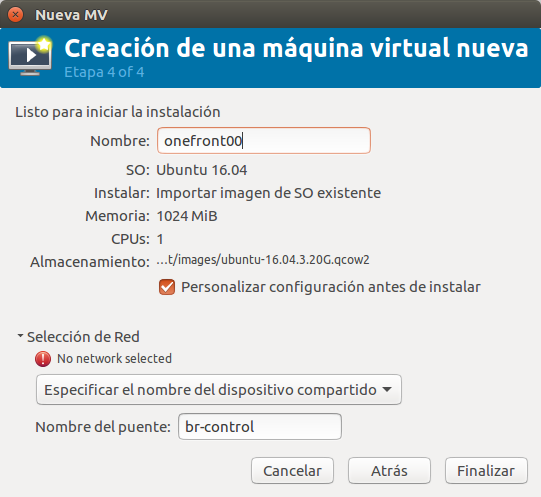
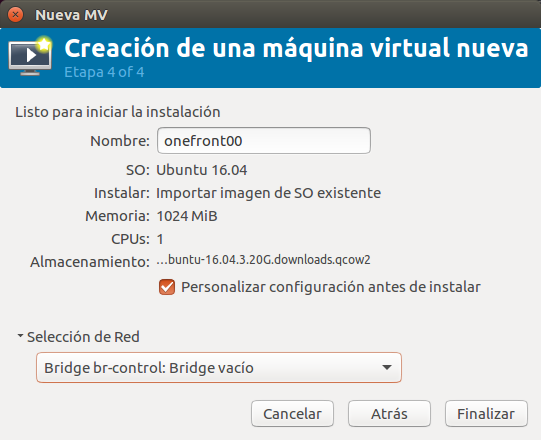
version para entregar

diff --git a/02_Instalacion_Basica/01_instalacion_basica.md b/02_Instalacion_Basica/01_instalacion_basica.md
@@ -1,0 +1,391 @@
+# Instalación Básica de OpenNebula
+
+En nuestro caso, la instalación básica de la plataforma que vamos a utilizar consiste en dos partes: por un lado, instalación de la plataforma de laboratorio que vamos a utilizar y, por otro, la instalación de OpenNebula en sí mismo.
+
+---
+> **NOTA:** Puesto que el documento tiene un ancho limitado, para identificar cuando un salto de línea no es tal (en las líneas de código o la ejecución de comandos), éstos aparecerán destacados sobre fondo gris y los números de línea de cada bloque a la izquierda. De esta forma, podremos identificar si una línea es continuación de la anterior porque no tendrá número de línea.
+
+## Instalación de la plataforma del laboratorio
+
+El caso de la plataforma nos vendrá habitualmente dado por la instalación de nuestro cluster en nuestra organización. En el curso nosotros vamos a instalar una plataforma de pruebas compuesta por un equipo front-end y un working node. Ambos tendrán Ubuntu 16.04 y estarán conectados por las siguientes redes:
+- una red de control, que llamaremos br-control y que tendrá IPs en el rango 192.168.0.1/24. Esta red se utilizará para realizar tareas de control de los nodos y nos permitirá comunicarlos entre ellos mediante SSH.
+- una red privada, que llamaremos brpriv y que tendrá IPs en el rango 10.10.0.1/24. Esta red se utilizará para alojar máquinas virtuales. 
+- una red con IPs públicas, que llamaremos brpub y que tendrá IPs en el rango 158.42.0.0/16. Esta red se utilizará para conectarnos a internet.
+
+El esquema del laboratorio es el siguiente:
+
+![Esquema del laboratorio](img/02_arquitectura.png)
+
+### Instalación del nodo físico (onenode01)
+
+#### Actualización del sistema
+
+Partimos de una instalación básica de Ubuntu 16.04, que actualizaremos y a la que instalaremos una serie de utilidades que vamos a necesitar para realizar la configuración:
+
+```bash
+$ apt-get update
+$ apt-get -y dist-upgrade
+$ apt-get install -y bridge-utils
+```
+
+#### Creación y configuración de las redes
+
+Una vez tenemos esto listo, realizaremos la configuración de red de la plataforma, creando las distintas redes que vamos a necesitar. 
+
+En primer lugar, deberemos averiguar qué interfaz tiene una IP pública en nuestra máquina. Para ello, ejecutaremos el comando ```ifconfig``` y buscaremos el interfaz que tiene la IP pública (el que tiene 158.42.x.x), que en nuestro caso es _enp3s0_.
+
+![Buscando la IP pública](img/02_ifconfig.png)
+
+Una vez conocido este dado, editaremos el fichero _/etc/network/interfaces_, teniendo en cuenta que deberemos sustituir el interfaz que hemos encontrado en el paso anterior donde pone _enp3s0_.
+
+```
+auto lo
+iface lo inet loopback
+
+auto br-control
+iface br-control inet static
+address 192.168.0.1
+netmask 255.255.255.0
+bridge_ports none
+
+auto brpriv
+iface brpriv inet static
+address 10.10.0.1
+netmask 255.255.255.0
+bridge_prots none
+
+auto brpub
+iface brpub inet dhcp
+bridge_ports enp3s0
+pre-up iptables-restore < /etc/iptables.up.rules
+```
+
+En este momento, tenemos las redes creadas pero desde las redes privadas no tendremos salida a Internet. Por lo que deberemos hacer la instalación del _router_ público de nuestra red. Para ello, prepararmos el fichero _/etc/iptables.up.rules_ con el siguiente contenido:
+
+```
+*nat
+-A POSTROUTING -s 192.168.0.0/24 ! -d 192.168.0.1/24 -o wlo1 -j MASQUERADE
+COMMIT
+*filter
+-A FORWARD -d 192.168.0.0/24 -i wlo1 -o br-control -m state --state RELATED,ESTABLISHED -j ACCEPT
+-A FORWARD -s 192.168.0.0/24 -i br-control -j ACCEPT
+COMMIT
+```
+
+Este fichero contiene unas reglas de _iptables_ que permitirán que el equipo implemente un _router_ desde las IPs en el rango 192.168.0.0/24 hacia Internet, a través de la red _brpub_. Las modificaciones que hemos introducido en el fichero _/etc/network/interfaces_ hacen que, cuando se ponga en funcionamiento la red pública, se ponga en funcionamiento esta funcionalidad de router.
+
+#### Configuración de los nombres de las máquinas
+
+A continuación ajustaremos el fichero _/etc/hosts_, añadiendo las entradas de los nombres de máquinas que vamos a utilizar en nuestro laboratorio:
+
+```
+192.168.0.1 onenode01
+192.168.0.2 onefront00
+```
+
+También modificaremos el fichero _/etc/hostname_ para que contenga el nombre de nuestro nodo:
+
+```bash
+$ echo "onenode01" > /etc/hostname
+```
+
+#### Reinicio de la máquina
+Una vez establecida la configuración de la máquina, deberemos reiniciar y verificar que tenemos conectividad de red hacia el exterior, haciendo un ping a una web conocida. Por ejemplo, con el siguiente comando:
+
+![Verificación de conectividad](img/02_ping.png)
+
+#### Instalación del servidor NFS
+Para almacenar las imágenes de discos necesitamos un equipo que actue como una NAS (_Network Attached Storage_). Para el laboratorio, vamos a hacer que este equipo sea el mismo nodo físico, pero con que responda ante otro nombre, para que podamos separar la funcionalidad. En este caso, será _nfsserver_.
+
+Lo primero que haremos será modificar el fichero _/etc/hosts_ incluyendo la siguiente línea:
+
+```
+192.168.0.1 nfsserver
+```
+
+A continuación, instalaremos los paquetes necesario para crear el servidor NFS y prepararemos un directorio, que será el que estará compartido a través de la red, entre las máquinas que forman la plataforma de virtualización (_onefront00_ y _onenode01_):
+
+```bash 
+$ apt-get install -y nfs-kernel-server nfs-common
+$ mkdir -p /srv/var/lib/one
+```
+
+Para que quede compartido mediante el protocolo NFS, tendremos que incluir la siguiente línea en el fichero _/etc/exports_.
+
+```
+/srv/var/lib/one 192.168.0.1/24(rw,sync,no_subtree_check,no_root_squash)
+```
+
+Y para que los cambios surtan efecto, reiniciaremos el servicio _NFS_:
+
+```bash
+$ service nfs-kernel-server restart
+```
+
+Queremos que el directorio _/srv/var/lib/one_ esté compartido entre las distintas máquinas. Es importante ajustar los permisos para que el futuro usuario _oneadmin_ pueda escribir en ese directorio, porque ese directorio será el _home_ de _oneadmin_. En la instalación por defecto de ONE, el usuario _oneadmin_ tendrá el identificador _9869_, por lo que ejecutaremos el siguiente comando:
+
+```bash
+$ chown -R 9869:9869 /srv/var/lib/one/
+```
+
+
+### Instalación del nodo front-end
+El nodo que va a hacer la función de front-end será una máquina virtual. Para ello, disponemos de una imagen de disco con Ubuntu 16.04.3 recién instalado, con el nombre de fichero _ubuntu-16.04.4.20G.qcow2_. En caso de que no se dispusiera de ella, se pueden seguir las instrucciones del Anexo I para generar la imagen de disco y volver a este punto.
+
+#### Creación de la máquina virtual
+De momento trabajaremos en el equipo físico (_onenode01_), hasta que tengamos la máquina virtual creada.
+
+En primer lugar, moveremos el fichero _ubuntu-16.04.4.20G.qcow2_ al directorio ```/var/lib/libvirt/images``` y le daremos permisos de lectura y escritura universales (en una instalación en producción deberíamos hacer un ajuste de estos permisos, pero para el caso que nos ocupa utilizaremos estos permisos universales):
+
+```bash 
+mv ubuntu-16.04.4.20G.qcow2 /var/lib/libvirt/images
+chmod 777 /var/lib/libvirt/image/ubuntu-16.04.4.20G.qcow2
+```
+
+Una vez listo, deberemos iniciar la aplicación _virt-manager_ ejecutando el comando ```virt-manager``` y nos aparecerá la siguiente imagen.
+
+![Imagen principal de virt-manager](img/02_1_w0.png).
+
+En esta aplicación deberemos pulsar el botón de crear una nueva máquina, con la figura ![Boton crear](img/02_1_btn_crear.png) y nos aparecerá la siguiente figura.
+
+![Creación de una máquina virtual](img/02_1_w1.png).
+
+Seleccionaremos la opción _Importar imagen de disco existente_ y pulsaremos en _Adelante_, para que nos permita entrar en la pantalla de selección del disco que se utilizará en la MV.
+
+![Seleción del disco a utilizar](img/02_1_w2.png)
+
+Aquí pulsaremos el botón "Explorar" y nos mostrará el contenido de los repositorios de imágenes, en una pantalla como la siguiente.
+
+![Reporitorio de imagenes](img/02_1_w3.png)
+
+En concreto, nos muestra el repositorio por defecto, que se encuentra ubicado en la ruta _/var/lib/libvirt/images_, y que es donde hemos guardado la imagen que vamos a utilizar. Por tanto, deberá aparecer y nosotros procederemos a seleccionarla y pulsar _"Elegir volumen"_. Esto nos llevará a la siguiente pantalla, y en ella selecionaremos que el tipo de Sistema Operativo (SO) es _"Linux"_, y que la versión es _"Ubuntu 16.04"_. Nos quedará como la siguiente pantalla.
+
+![SO seleccionado](img/02_1_w4.png)
+
+Una vez conseguida esta situación, pulsaremos el botón "Adelante" y nos mostrará la siguiente pantalla de selección de la cantidad de memoria virtual y CPUs que vamos a dedicar a la MV.
+
+![Recursos para la MV](img/02_1_w5.png)
+
+En nuestro caso vamos a seleccionar que queremos 1024 MB y 1 Core, puesto que son recursos suficientes para nuestra máquina. Una vez establecidos los valores, pulsaremos el botón "Adelante" y nos mostrará la siguiente pantalla.
+
+![Valores finales](img/02_1_w6.png)
+
+En esta pantalla indicaremos el nombre de la MV (_onefront00_) y marcaremos las opciones de _"Personalizar configuración antes de instalar"_, e indicaremos que la red que queremos utilizar es la del puente _br-control_. Una vez hecho esto, pulsaremos el botón _"Finalizar"_ y llegaremos a la siguiente pantalla:
+
+![Información de la Máquina](img/02_1_w7.png)
+
+Aquí pulsaremos el botón _"Agregar hardware"_ y nos mostrará una pantalla como la siguiente, en la que deberemos seleccionar que la "fuente de red" es el bridge privado _brpriv_. Para el modelo del dispositivo, dejaremos el _"Hipervisor por defecto"_ y pulsaremos _"Finalizar"_.
+
+![Nueva red](img/02_1_w8.png).
+
+Estas acciones nos dejarán una configuración como la que se muestra en la siguiente imagen, que será la que estábamos buscando.
+
+![Configuración final de la máquina](img/02_1_w9.png).
+
+En este momento podremos pulsar el botón _"Iniciar la instalación"_ y si todo ha ido correctamente, la máquina comenzará a arrancar como se muestra en la siguiente figura.
+
+![Máquina virtual arrancando](img/02_1_w10.png).
+
+#### Configuración de la red en la Máquina virtual
+Una vez termine de arrancar la máquina, tendremos que configurar la red de la misma.
+
+Por el momento, tendremos que hacer la configuración desde la consola que nos ofrece _virt-manager_ ya que no podemos acceder a la máquina virtual de otra forma.
+
+Para empezar, deberemos averiguar el nombre de los interfaces de red que tenemos en la máquina, con el comando ```ip link```, que nos mostrará una salida similar a la de la siguiente figura:
+
+![Interfaces en la máquina virtual](img/02_ip_link.png)
+
+En este caso, los nombres son _ens3_ y _ens4_. Con estos nombres, tendemos que editar el fichero _/etc/network/interfaces_ para que quede el siguiente contenido (ajustando los nombres, de acuerdo a los obtenidos):
+
+```
+auto lo
+iface lo inet loopback
+
+auto ens3
+iface ens3 inet static
+address 192.168.0.2
+netmask 255.255.255.0
+gateway 192.168.0.1
+dns-nameservers 8.8.8.8
+
+auto ens4
+iface ens4 inet static
+address 10.10.0.202
+netmask 255.255.255.0
+```
+
+Ahora ajustaremos el contenido del fichero _/etc/hosts_, añadiendo las siguientes líneas:
+
+```
+192.168.0.1 onenode01 nfsserver
+192.168.0.2 onefront00
+```
+
+Y finalmente, estableceremos el nombre de la máquina, ejecutando el siguiente comando:
+
+```bash
+$ echo "onefront00" > /etc/hostname
+```
+
+En este momento deberemos reiniciar la máquina, y ya tendrá una configuración de red válida para nosotros.
+
+Para verificar el funcionamiento, accederemos a _onefront00_ mediante SSH y haremos un _ping_ a una máquina exterior, como en el ejemplo:
+
+![Verificar red de onefront00](img/02_verificar_red_onefront00.png)
+
+## Instalación de OpenNebula
+Una vez tenemos lista la _plataforma física de virtualización_ (* en el laboratorio estamos sustituyendo el nodo principal por una máquina virtual), podemos proceder a la instalación de OpenNebula (en adelante, _ONE_).
+
+### Instalación del front-end (onefront00)
+
+Puesto que ya tenemos configurada la red, podremos acceder a _onefront00_ por SSH para hacer la instalación del front-end.
+
+Para comenzar, tendremos que añadir el repositorio de ONE, ejecutando los siguientes comandos:
+
+```bash
+$ wget -q -O- https://downloads.opennebula.org/repo/repo.key | apt-key add -
+$ echo "deb https://downloads.opennebula.org/repo/5.4/Ubuntu/16.04 stable opennebula" > /etc/apt/sources.list.d/opennebula.list
+```
+
+Una vez añadidos, puesto que hemos indicado un repositorio con url https, tendremos que instalar el soporte https para apt:
+
+```bash
+$ apt-get install -y apt-transport-https
+```
+
+A continuación deberemos actualizar los paquetes disponibles en el sistema, ejecutando el comando siguiente:
+
+```bash
+$ apt-get update
+```
+
+Verificaremos que ONE se va a instalar desde los servidores de _downloads.opennebula.org_, con el comando ```apt-cache madison opennebula```, que debería darnos una salida en la que constara expresamente el servidor de _downloads.opennebula.org_, como en la siguiente figura:
+
+![Fuentes de ONE](img/02_sources_opennebula.png)
+
+Si todo está correcto, podremos proceder a la instalación de ONE, ejecutando el comando siguiente:
+
+```bash
+$ apt-get install -y opennebula opennebula-sunstone opennebula-gate opennebula-flow
+```
+
+Una vez instalados estos paquetes, deberemos completar la instalación con la ejecución del siguiente comando (aceptando las preguntas que nos haga):
+
+```bash
+$ /usr/share/one/install_gems
+```
+
+### Instalación del nodo de virtualización (onenode01)
+Una vez instalados los paquetes en el nodo principal, vamos a instalar los paquetes necesarios en el nodo de virtualización.
+
+Empezaremos añadiendo los repositorios de ONE, como hicimos en el servidor, ejecutando los siguientes comandos:
+
+```bash
+$ wget -q -O- https://downloads.opennebula.org/repo/repo.key | apt-key add -
+$ echo "deb https://downloads.opennebula.org/repo/5.4/Ubuntu/16.04 stable opennebula" > /etc/apt/sources.list.d/opennebula.list
+```
+
+Una vez añadidos, instalaremos el soporte https para _apt_ y actualizaremos los paquetes del sistema:
+
+```bash
+$ apt-get install -y apt-transport-https
+$ apt-get update
+```
+
+Finalmente instalaremos el único paquete que es necesario para un nodo de virtualización, ejecutando el comando siguiente:
+
+```bash
+$ apt-get install -y opennebula-node
+```
+
+### Integración con el sistema de ficheros compartido
+
+Disponer de un sistema de fichero compartido en ONE nos vendrá bien por distintos motivos. El motivo más evidente es que, de esta forma, podemos tener algo equivalente a un sistema NAS en nuestro laboratorio, para poder seguir el curso.
+
+Además será mucho más sencilla la instalación y administración de ONE, puesto que el directorio _home_ del usuario _oneadmin_ estará disponible en todos los equipos y esto nos facilitará el acceso _ssh sin contraseña_.
+
+Pero de forma general, en cualquier instalación de ONE nos interesará disponer de un sistema de ficheros compartidos para poder utilizar características como _migración en vivo_. Para hacer uso de esta funcionalidad, el sistema de ficheros compartido es un requisito ineludible.
+
+Para poder integrarnos con el sistema de archivos compartidos _nfsserver_, que hemos instalado anteriormente, deberemos añadir la siguiente línea al fichero _/etc/fstab_ tanto de _onefront00_ como de _onenode01_:
+
+```bash
+nfsserver:/srv/var/lib/one      /var/lib/one    nfs     soft,intr,rsize=8192,wsize=8192
+```
+
+Para darle el contenido inicial al directorio, iniciaremos una sesión SSH en _onefront00_ y ejecutaremos los siguientes comandos:
+
+```bash
+$ mv /var/lib/one /var/lib/one.local
+$ mkdir /var/lib/one
+$ mount /var/lib/one
+$ cd /var/lib/one.local/
+$ cp -r .one .ssh * /var/lib/one/
+```
+
+Una vez hecho todo esto, reiniciaremos los dos equipos. Hay que tener en cuenta que _en nuestro caso particular_, tendremos que apagar primero _onefront00_ puesto que es virtual. Después podremos reiniciar _onenode01_. Finalmente poner en marcha de nuevo _onefront00_, abriendo _virt-manager_, seleccionando la máquina en la consola y pulsando el botón _"play"_, como en la figura siguiente:
+
+![Iniciando onefront con virt-manager](img/02_iniciar_virt-manager.png)
+
+Para verificar que efectivamente ha funcionado la integración, podemos iniciar una sesión mediante SSH en _onefront00_ y ejecutar el comando ```mount | grep nfsserver```. La salida debe contener una línea en la que se indican los parámetros de conexión a la unidad compartida, y debe ser similar a la de la siguiente figura.
+
+![Comprobación del directorio compartido](img/02_mount_nfsserver.png)
+
+También deberemos repetir la operación en _onenode01_ para comprobar que tenemos el directorio montado correctamente.
+
+> **NOTA:** Podemos hacer una comprobación adicional, que consistiría en, como usuario _oneadmin_, escribir un fichero en el directorio _/var/lib/one_ en _onefront00_ y comprobar que efectivamente aparece en el directorio _/var/lib/one_ de _onenode01_.
+
+### SSH sin Contraseña entre los nodos
+Un requisito para ONE es que el usuario _oneadmin_ debe poder hacer _ssh sin contraseña_ desde el front-end a los nodos. En nuestro caso, será desde _onefront00_ a _onenode01_.
+
+En principio, esto debería estar funcionando porque el directorio _home_ de _oneadmin_ está compartido entre los equipos y la instalación de ONE prepara el acceso sin contraseña. Sin embargo, deberemos verificarlo y para ello iniciaremos una sesión en _onefront00_, cambiaremos al usuario _oneadmin_ y haremos _ssh_ a _onenode01_.
+
+Si todo ha ido correcto, deberíamos encontrarnos en una situación como la de la figura siguiente:
+
+![Verificación de SSH sin contraseña](img/02_ssh_sin_password.png)
+
+Si alguno de los pasos anteriores falla, deberemos repasar la instalación y conseguir que el usuario _oneadmin_ pueda hacer _ssh sin contraseña_ desde _onefront00_ a _onenode01_.
+
+> **NOTA:** Si tenemos un fichero $HOME/.ssh/id\_rsa.pub, el _ssh sin contraseña_ se coneguiría copiando ese fichero a $HOME/.ssh/authorized\_keys. También es importante revisar que el propietario de la carpeta $HOME/.ssh sea el usuario _oneadmin_.
+
+Para evitar que al conectar a un nodo de la plataforma nos solicite guardar su _fingerprint_ ssh, crearemos el fichero _$HOME/.ssh/config_ con el siguiente contenido:
+
+```bash
+Host 192.168.0.* one*
+StrictHostKeyChecking no
+UserKnownHostsFile=/dev/null
+```
+
+Lo que conseguimos con este fichero es confirmar que la red de control es confiable y que las máquinas existentes en ella están controladas.
+
+## Inicio de ONE
+El primer inicio de ONE es bastante importante, puesto que determinará la clave del usuario administrador de la plataforma.
+
+El administrador de la plataforma es el usuario _oneadmin_. Este usuario existe tanto como _usuario linux_ como _usuario ONE_.
+
+Las credenciales de los usuarios linux para usar ONE desde la línea de comandos se encuentran en el fichero _$HOME/.one/one_auth_. El contenido de ese fichero es _<usuario_one>_:_<clave_one>_. Un ejemplo es el de la siguiente figura:
+
+![Fichero oneauth](img/02_oneauth.png)
+
+Deberemos asegurarnos de que ese fichero existe, con el propio usuario _oneadmin_ arrancaremos el demonio ONE utilizando el comando siguiente:
+
+```bash
+$ one start
+```
+
+Además deberemos poner en funcionamiento el cliente gráfico de ONE, con el siguiente comando:
+
+```bash
+$ sunstone-server start
+```
+
+Si todo ha ido correctamente, podremos ejecutar el comando ```onevm list``` y ver que efectivamente contactamos con el servidor.
+
+Lo ocurrido debería ser similar a la siguiente imagen:
+
+![Primer inicio de ONE](img/02_primer_inicio.png)
+
+Ahora podremos acceder, utilizando un navegador, a la dirección _http://onefront00:9869_ y nos debería aparecer la página principal del cliente web _Sunstone_:
+
+![Pantalla de acceso a Sunstone](img/02_login_sunstone.png)
+
+Aquí podremos hacer _login_ utilizando el usuario _oneadmin_ y la clave que aparece en el fichero _$HOME/.one/one_auth_. En el caso del ejemplo anterior, la clave sería _Sadej4bladIf_.
